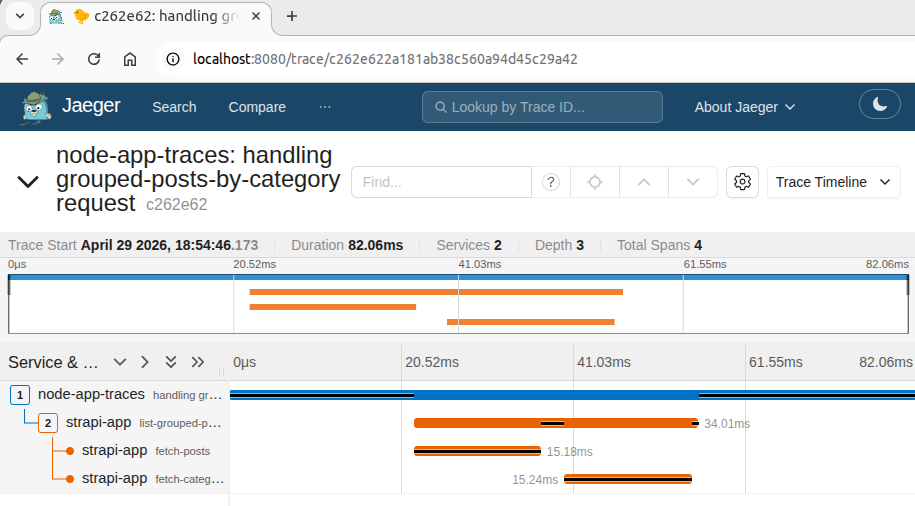
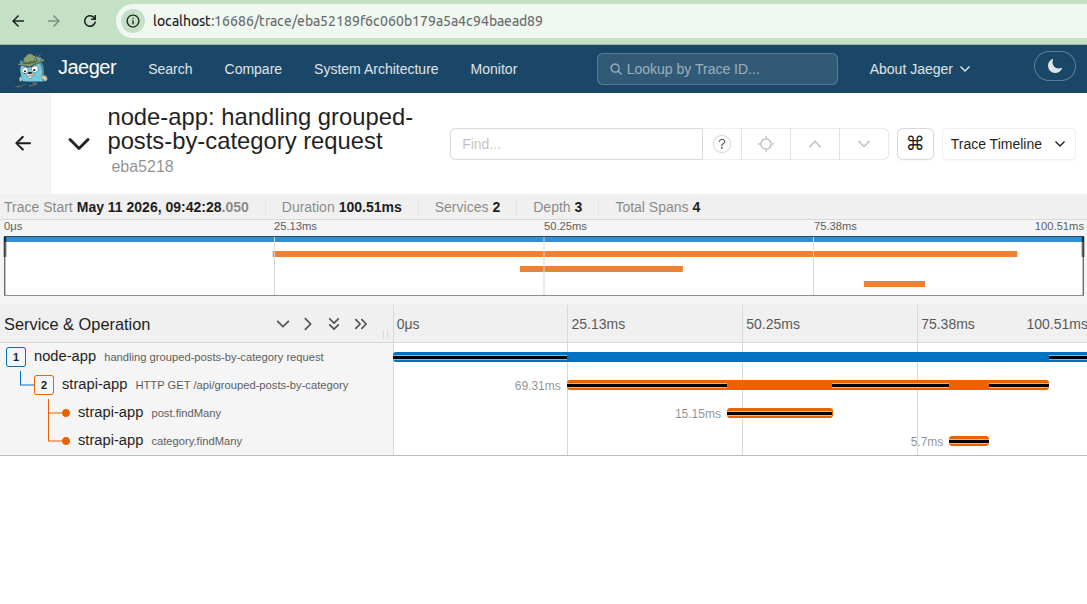
Update documentation

diff --git a/README.md b/README.md
@@ -9,7 +9,7 @@ Strapi is a Content Management System (CMS) that provides flexibility to create 
 This demo illustrates three approaches to improve Strapi observability:
 
 - **Strapi Prometheus plugin to expose metrics** — useful for HTTP request, error, and resource metrics without custom code
-- **Collection of logs, metrics, and traces based on the OpenTelemetry framework** — needed for distributed traces and request context propagation in custom controllers or other components
+- **Collection of logs, metrics, and traces based on the OpenTelemetry framework** — needed for distributed traces and request context propagation in middlewares and other components
 - **Prometheus metrics for Cloud Native PG, a PostgreSQL operator for Kubernetes** — lets you correlate database health and latency with Strapi behavior. Because Strapi connects to a SQL database, adding observability to the database helps surface issues that affect Strapi.
 
 ## Applications for the demo
@@ -75,13 +75,11 @@ tracer.startActiveSpan('<span-name>', (span) => {
 });
 ```
 
-To extract context and correlate spans in the receiving service in a Strapi controller, use `propagation.extract` and `context.with` (example in `strapi-app/src/api/post/controllers/post.js`):
+To extract context and correlate spans in the receiving service in a Strapi controller or middleware, use `propagation.extract` and `context.with`:
 
 ```js
 const { trace, context, propagation } = require('@opentelemetry/api');
 const tracer = trace.getTracer('strapi-otel-tracer');
-
-// Inside controller
 
 const headers = ctx.request.headers;
 const parentContext = propagation.extract(context.active(), headers);
@@ -96,6 +94,8 @@ await context.with(parentContext, async () => {
   );
 });
 ```
+
+The current implementation takes advantage of [Strapi middlewares](https://docs.strapi.io/cms/backend-customization/middlewares) in _routes_ and _Document Service_, allowing reuse of manual instrumentation for multiple routes and services. It extracts propagation context from request headers in the _global::observability_ middleware (`strapi-app/src/middlewares/observability.js`) and passes it through `ctx.query.otelContext` to be available for _Document Service_ middleware, which is configured in `strapi-app/src/index.js`. Then, spans can be collected for the HTTP request and every _Document Service_ call. Both middlewares can have opt-out mechanisms based on specific `apis` or `service methods`.
 
 ### SDKs
 
@@ -257,7 +257,9 @@ Open the app at `http://localhost:3000`. Visit the homepage and navigate to `/gr
 - [@opentelemetry/sdk-node](https://www.npmjs.com/package/@opentelemetry/sdk-node)
 - [@opentelemetry/api](https://www.npmjs.com/package/@opentelemetry/api)
 - [OpenTelemetry JS Propagation](https://uptrace.dev/get/opentelemetry-js/propagation)
-- [Node.js Distributed Tracing for Microservices](https://oneuptime.com/blog/post/2026-01-06-nodejs-distributed-tracing-microservices/view)
 - [OpenTelemetry Spans Explained: Deconstructing Distributed Tracing](https://last9.io/blog/opentelemetry-spans-events/)
 - [Jaeger V2 Operator](https://github.com/jaegertracing/jaeger-operator?tab=readme-ov-file)
+- [Node.js Distributed Tracing for Microservices](https://oneuptime.com/blog/post/2026-01-06-nodejs-distributed-tracing-microservices/view)
+- [Strapi middlewares](https://docs.strapi.io/cms/backend-customization/middlewares)
 - [kube-prometheus-stack Helm chart](https://github.com/prometheus-community/helm-charts/tree/main/charts/kube-prometheus-stack)
+- [How to Manage Enterprise Metadata Without Expensive Migrations](https://strapi.io/blog/7-tips-enterprise-metadata-management)